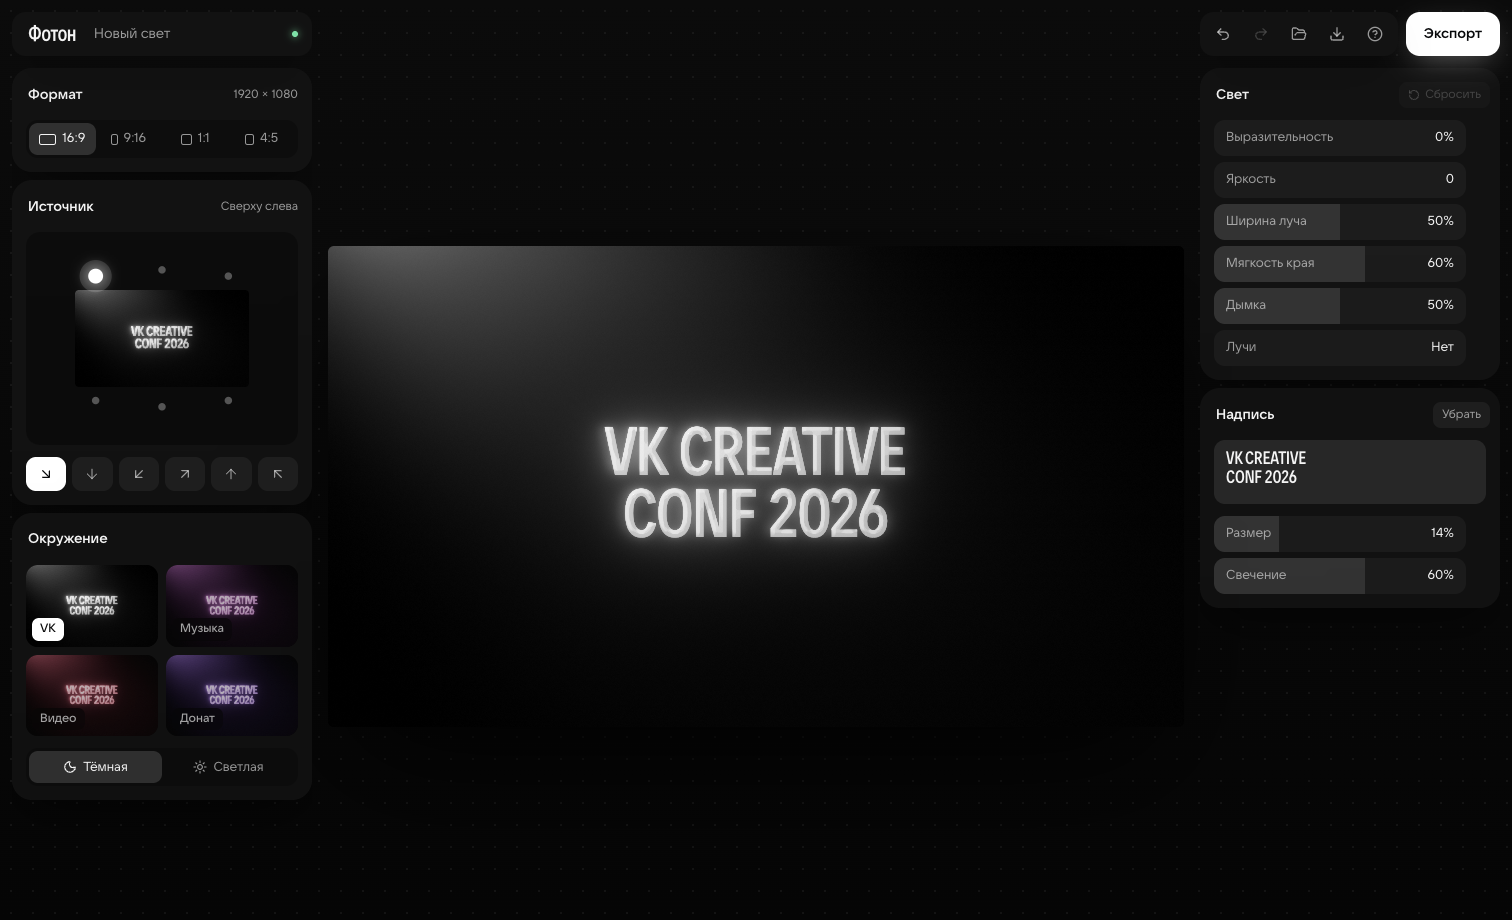
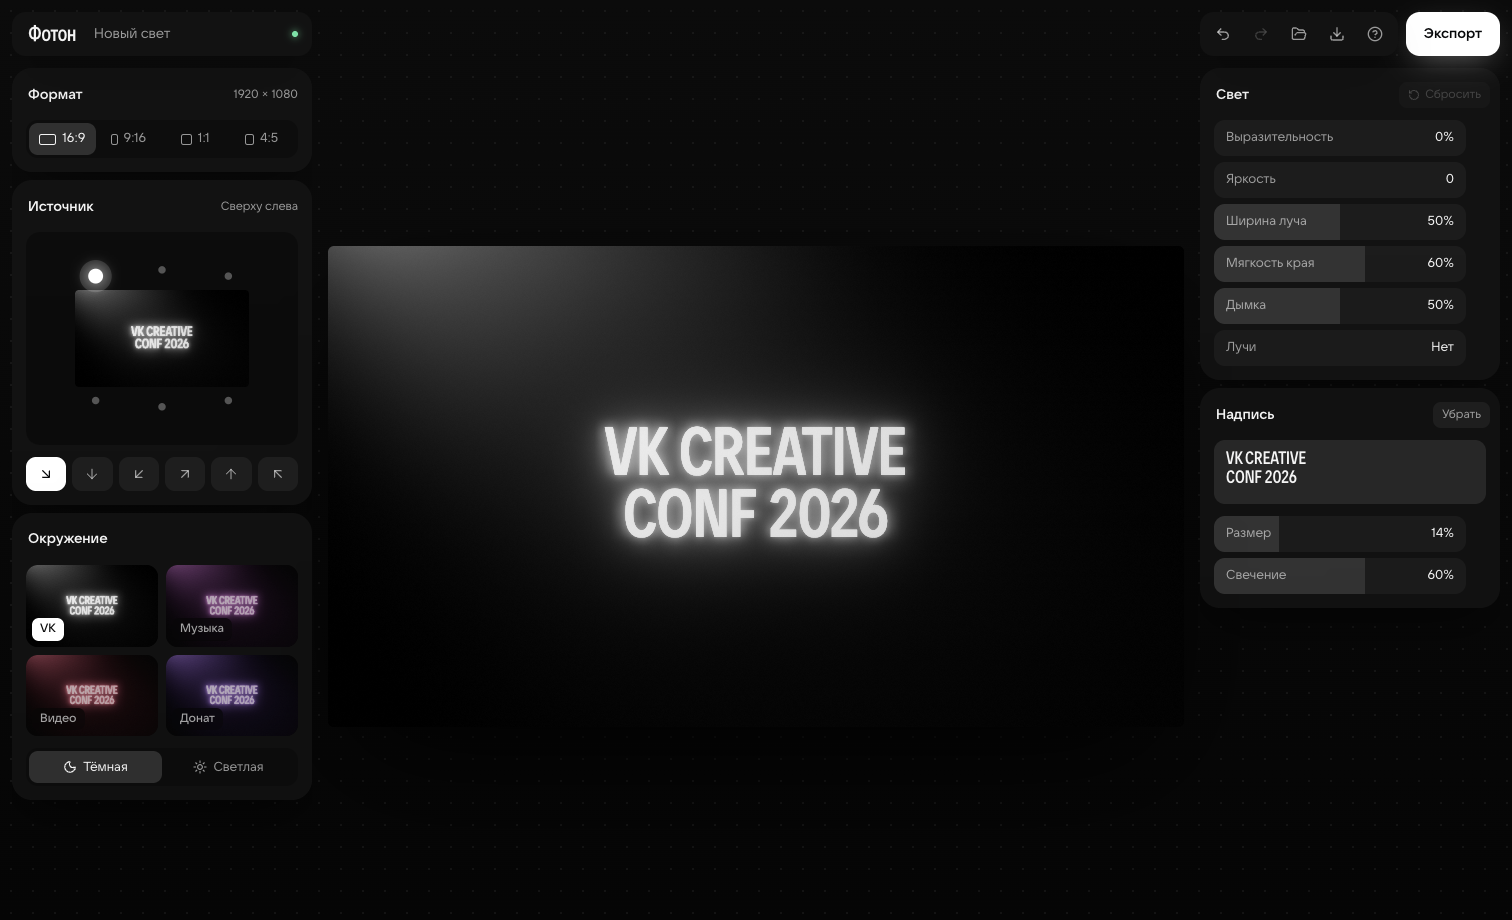
Надпись плоская и светящаяся, как в макетах гайда
Убраны фаска и блики на гранях. Буквы — плоская белая поверхность,
освещённая той же лампой (ярче у источника), с собственным свечением
и плотным ореолом из размытого mip-уровня маски.

diff --git a/README.md b/README.md
@@ -17,7 +17,7 @@ npm run dev
 
 - **Один свет на все направления.** Источник — угол вокруг кадра и отступ от края. Шесть направлений гайда — точки на этой оси, а не шесть разных пресетов. Свет двигают мышью прямо на холсте или по миниатюре в панели; клавиши 1–6 ставят направления гайда.
 - **Сабренды:** у VK свет белый; у Музыки, Видео и Доната свет окрашен в светлый акцент гайда (`docs/figma/`).
-- **Надпись в свете:** текст становится поверхностью сцены — буквы освещает та же лампа, грани со стороны света бликуют, ореол даёт bloom; при смене направления свет на буквах перестраивается сам.
+- **Надпись в свете:** плоские светящиеся буквы, как в макетах гайда; их освещает та же лампа — сторона у источника ярче, ореол сильнее, и при смене направления это перестраивается само.
 - **Комнаты:** тёмная и светлая. Неосвещённая стена светлой комнаты выходит ровно #C7CBD6.
 - **Выразительность:** 0% — калибровка по кадрам гайда «Свечение. Направления»; 100% — тот же свет ярче и объёмнее, с сильным ореолом. Между ними — плавный переход.
 - **Мягкие лучи:** структура света с неровным шагом, расплывается к концу луча.

diff --git a/docs/architecture.md b/docs/architecture.md
@@ -30,7 +30,7 @@
 
 ## Надпись
 
-Текст растеризуется в маску размером с кадр (`src/engine/text.ts`, VK Sans Display Condensed) с mip-уровнями. Шейдер читает размытые уровни как карту высот: лицо буквы плоское, фаска у края наклонена. Буквы освещаются той же лампой — диффуз и блик GGX — плюс собственное свечение. Освещение надписи попадает в слой «Свет», ореол — в общий bloom.
+Текст растеризуется в маску размером с кадр (`src/engine/text.ts`, VK Sans Display Condensed) с mip-уровнями. Буквы плоские и светятся, как в макетах гайда: их освещает та же лампа, поэтому сторона надписи у источника ярче, а дальняя плавно гаснет — без ручного градиента и с перестройкой при смене направления. Ореол — размытый mip-уровень маски, тоже сильнее со стороны света; поверх работает общий bloom. Надпись попадает в слой «Свет».
 
 ## Движение (скрыто из интерфейса)
 
